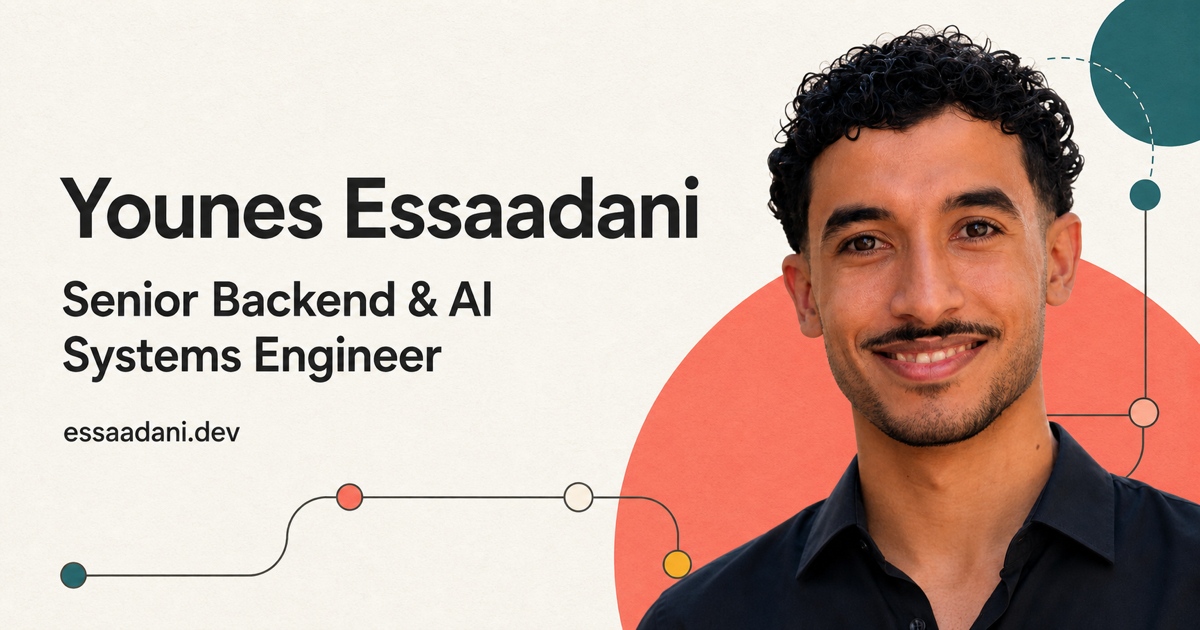
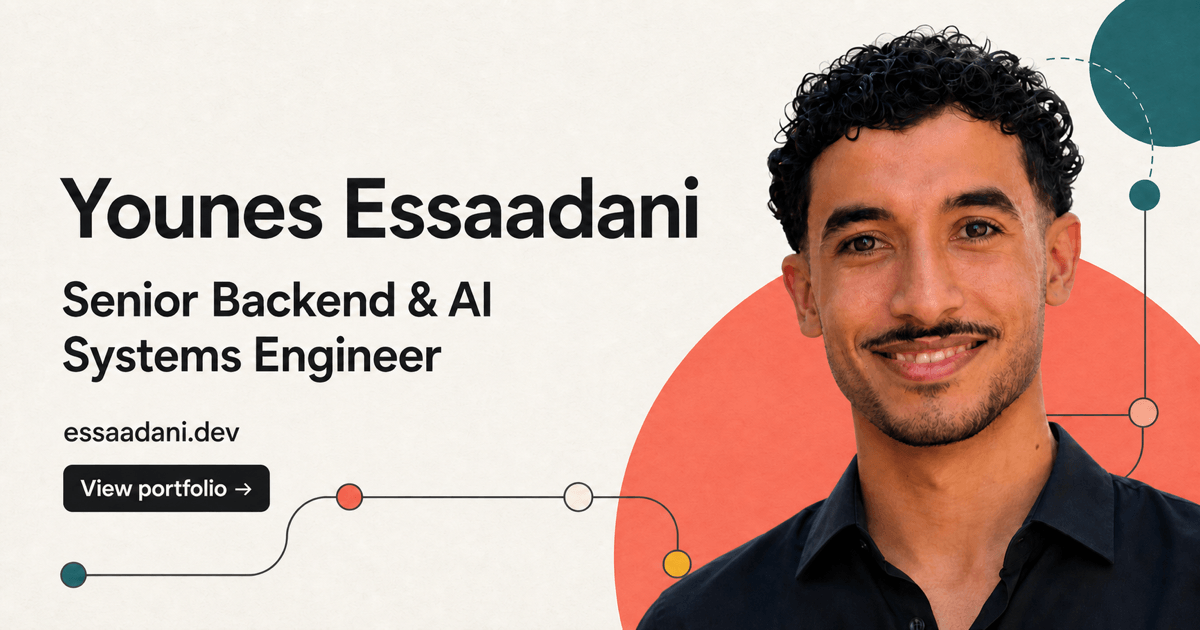
add CTA in OG

diff --git a/app/layout.tsx b/app/layout.tsx
@@ -31,7 +31,7 @@ export const metadata: Metadata = {
         url: "https://www.essaadani.dev",
         title: "Younes Essaadani | Senior Backend & AI Systems Engineer",
         description:
-            "Senior Backend and AI Systems Engineer specializing in production RAG pipelines, distributed systems, LangGraph, and large-scale data architecture.",
+            "Senior Backend & AI Systems Engineer building production RAG pipelines, distributed systems, and scalable data platforms.",
         siteName: "essaadani.dev",
         images: [
             {
@@ -46,7 +46,7 @@ export const metadata: Metadata = {
         card: "summary_large_image",
         title: "Younes Essaadani | Senior Backend & AI Systems Engineer",
         description:
-            "Senior Backend and AI Systems Engineer building production RAG pipelines and large-scale distributed systems.",
+            "Senior Backend & AI Systems Engineer building production RAG pipelines, distributed systems, and scalable data platforms.",
         images: ["/og-image.png"],
         creator: "@EssaadaniYounes",
     },
